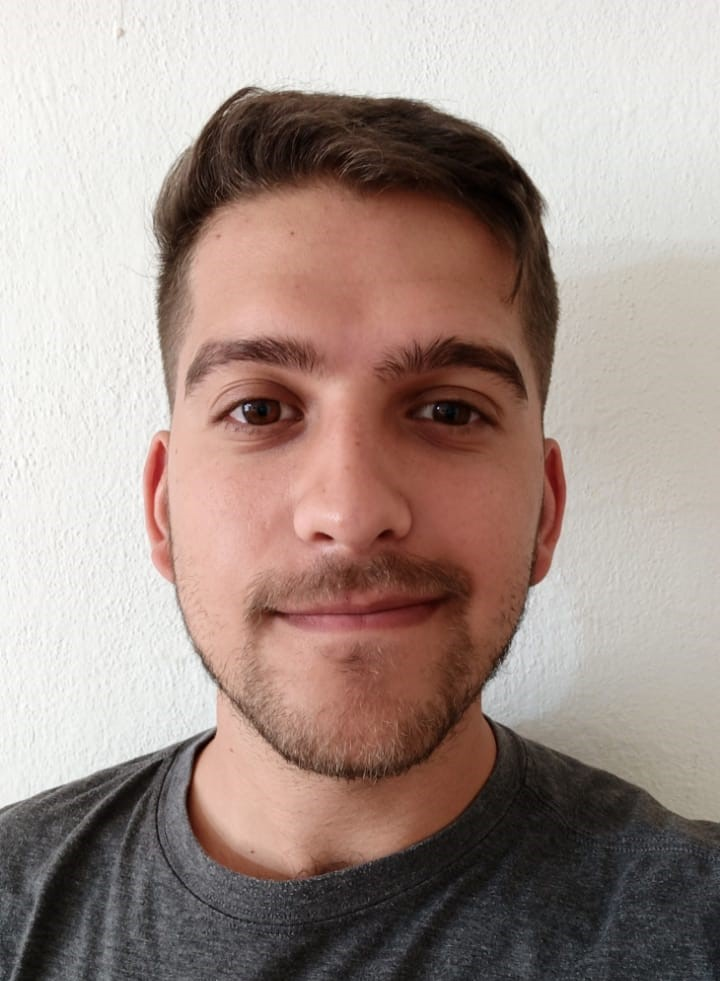
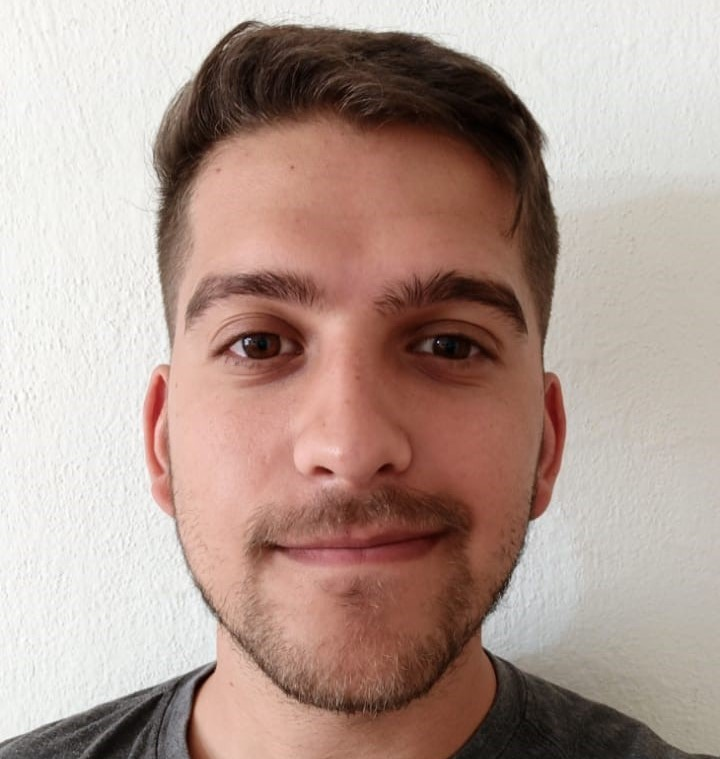
Correccion de colores y diseño

diff --git a/Portfolio-en-Angular/src/app/acerca-de/acerca-de.component.html b/Portfolio-en-Angular/src/app/acerca-de/acerca-de.component.html
@@ -1,31 +1,56 @@
 <div class="container-fluid">
   <div class="row">
-    <div class="col-xs-12 col-sm-2 col-md-2 col-lg-2">
+    <div class="text-center position-relative">
       <img
         src="../../assets/foto perfil.jpg"
         alt=""
         id="fotoPerfil"
-        class="img-fluid"
+        class="rounded-circle mx-auto d-block position-absolute top-50 start-50 translate-middle"
       />
     </div>
   </div>
 </div>
+<div class="row"></div>
+<div class="row"></div>
 <div class="container-fluid">
-  <div class="row align-items-start">
-    <div class="col-xs-12 col-sm-3 col-md-3 col-lg-3" id="tituloDiv">
-      <h2>Mariano Vera Causich</h2>
-      <p>Full stack Developer Jr</p>
+  <div class="row">
+    <div class="text-center" id="tituloDiv">
+      <h1>Mariano Vera Causich</h1>
+      <p>
+        Full stack Developer Jr - Estudiante avanzando Ingenieria Electrónica
+      </p>
     </div>
-    <div class="col-xs-12 col-sm-8 col-md-8 col-lg-8">
-      <span>
-        <h1>Acerca de</h1>
-        <p>
-          Lorem ipsum dolor sit amet consectetur adipisicing elit. Harum
-          deserunt ad debitis? Explicabo, tempora eius pariatur repudiandae
-          vitae itaque officia, incidunt ea, illum commodi reiciendis minus
-          similique quibusdam! Rerum, illo!
-        </p>
-      </span>
+  </div>
+
+  <div class="container-fluid">
+    <div class="row align-items-center">
+      <div class="col-xs-12 col-sm-9 col-md-9 col-lg-9">
+        <span>
+          <h1>Acerca de</h1>
+          <p>
+            Lorem ipsum dolor sit amet consectetur adipisicing elit. Harum
+            deserunt ad debitis? Explicabo, tempora eius pariatur repudiandae
+            vitae itaque officia, incidunt ea, illum commodi reiciendis minus
+            similique quibusdam! Rerum, illo! Lorem, ipsum dolor sit amet
+            consectetur adipisicing elit. Quas, dolore rerum. Repudiandae
+            possimus vero unde ipsam qui dicta? Voluptas pariatur maiores enim
+            ea fugit illo recusandae assumenda neque rerum tempora! Lorem, ipsum
+            dolor sit amet consectetur adipisicing elit. Enim, magnam facilis
+            voluptate reprehenderit dolore et repudiandae qui, quis facere
+            aliquam molestiae hic quod suscipit ullam cumque quidem beatae atque
+            delectus?
+          </p>
+        </span>
+      </div>
+      <div class="col-1"></div>
+      <div class="col-xs-12 col-sm-2 col-md-2 col-lg-2">
+        <img
+          class="float-end"
+          id="acerca-mi"
+          src="../../assets/persona.png"
+          alt="Imagen"
+        />
+      </div>
     </div>
   </div>
 </div>

diff --git a/Portfolio-en-Angular/src/app/experiencia/experiencia.component.html b/Portfolio-en-Angular/src/app/experiencia/experiencia.component.html
@@ -1,22 +1,31 @@
-<div class="container-fluid" id="experiencia">
-  <div class="row">
-    <h1>Experiencia laboral</h1>
-    <div class="col-lg-1"></div>
-    <div class="col-lg-11">
-      <ul>
-        <li>
-          <h3>Profesor reparacion y armado de PC </h3>
-         
-          <h3>(2021-presente)</h3>
-          <p>
-            Lorem ipsum dolor sit amet consectetur adipisicing elit. Accusantium
-            similique ullam necessitatibus tenetur dolorem enim voluptatem modi,
-            velit et eveniet sunt, vero omnis eius voluptatibus provident incidunt
-            nihil consequatur unde.
-          </p>
-        </li>
-      </ul>
+<div class="container-fluid">
+  <div class="row align-items-center">
+    <div class="col-xs-12 col-sm-9 col-md-9 col-lg-9">
+      <span>
+        <h1>Experiencia laboral</h1>
+        <ul>
+          <li>
+            <h3>Profesor reparacion y armado de PC </h3>
+           
+            <h3>(2021-presente)</h3>
+            <p>
+              Lorem ipsum dolor sit amet consectetur adipisicing elit. Accusantium
+              similique ullam necessitatibus tenetur dolorem enim voluptatem modi,
+              velit et eveniet sunt, vero omnis eius voluptatibus provident incidunt
+              nihil consequatur unde.
+            </p>
+          </li>
+        </ul>
+      </span>
     </div>
-    
+    <div class="col-1"></div>
+    <div class="col-xs-12 col-sm-2 col-md-2 col-lg-2">
+      <img
+        class="float-end"
+        id="experiencia-img"
+        src="../../assets/empresario.png"
+        alt="Imagen"
+      />
+    </div>
   </div>
 </div>

diff --git a/Portfolio-en-Angular/src/app/acerca-de/acerca-de.component.css b/Portfolio-en-Angular/src/app/acerca-de/acerca-de.component.css
@@ -1,10 +1,12 @@
 .row{
     padding: 30px;
+    
 }
 
 div{
-    background-color: #457b9d;
-    color: #f1faee;
+    background-color: #f1faee;
+    color: #1d3557;
+     /* border: 1px solid red;  */
 }
 
 #tituloDiv{
@@ -14,21 +16,30 @@ div{
 @media(min-width: 576px){
     
     #fotoPerfil{
-        position: absolute; 
-        width: 13%;
-        top: 18%;
-        left: 7.5%;
-        border: 2px solid #f1faee;
-        border-radius: 5%;
+        max-width: 17%;
+        border: 3px solid #1d3557;
+ 
     }    
 }
 @media (max-width:575px){
 
     #fotoPerfil{
-        text-align: center;
         width: 60%;
-        border: 2px solid #f1faee;
-        border-radius: 5%;
+        border: 3px solid #1d3557;
     } 
-} 
+}   
+
+@media(min-width: 576px){
+    
+    #acerca-mi{
+        max-width: 70%;
+    }    
+}
+@media (max-width:575px){
+
+    #acerca-mi{
+        width: 30%;
+    } 
+}   
+
 

diff --git a/Portfolio-en-Angular/src/app/experiencia/experiencia.component.css b/Portfolio-en-Angular/src/app/experiencia/experiencia.component.css
@@ -1,7 +1,11 @@
-#experiencia{
-    padding: 0 100px 0 70px;
-    color: #f1faee;  
-    background-color: #457b9d;
+.row{
+    padding: 30px;
+    
+}
+
+div{
+    color: #1d3557;  
+    background-color: #f1faee;
     
    
 }
@@ -9,5 +13,19 @@
 h3{
     display: inline;
 }
+
+@media(min-width: 576px){
+    
+    #experiencia-img{
+        max-width: 70%;
+
+    }    
+}
+@media (max-width:575px){
+
+    #experiencia-img{
+        width: 30%;
+    } 
+}   
 
 

diff --git a/Portfolio-en-Angular/src/app/app.component.html b/Portfolio-en-Angular/src/app/app.component.html
@@ -1,5 +1,5 @@
 <app-header></app-header>
-<app-banner></app-banner>
+<app-banner></app-banner> 
 <app-acerca-de></app-acerca-de>
 <app-experiencia></app-experiencia>
 <app-educacion></app-educacion>

diff --git a/Portfolio-en-Angular/src/app/educacion/educacion.component.css b/Portfolio-en-Angular/src/app/educacion/educacion.component.css
@@ -1,7 +1,7 @@
 #educacion{
     padding: 0 100px 0 70px;
-    color: #f1faee;  
-    background-color: #457b9d;
+    color: #1d3557;  
+    background-color: #f1faee;
     
    
 }

diff --git a/Portfolio-en-Angular/src/app/banner/banner.component.css b/Portfolio-en-Angular/src/app/banner/banner.component.css
@@ -1,4 +1,4 @@
-img{
+ img{
     width: 100%;
-    background-color: white;
+    height: 100%;
 }
